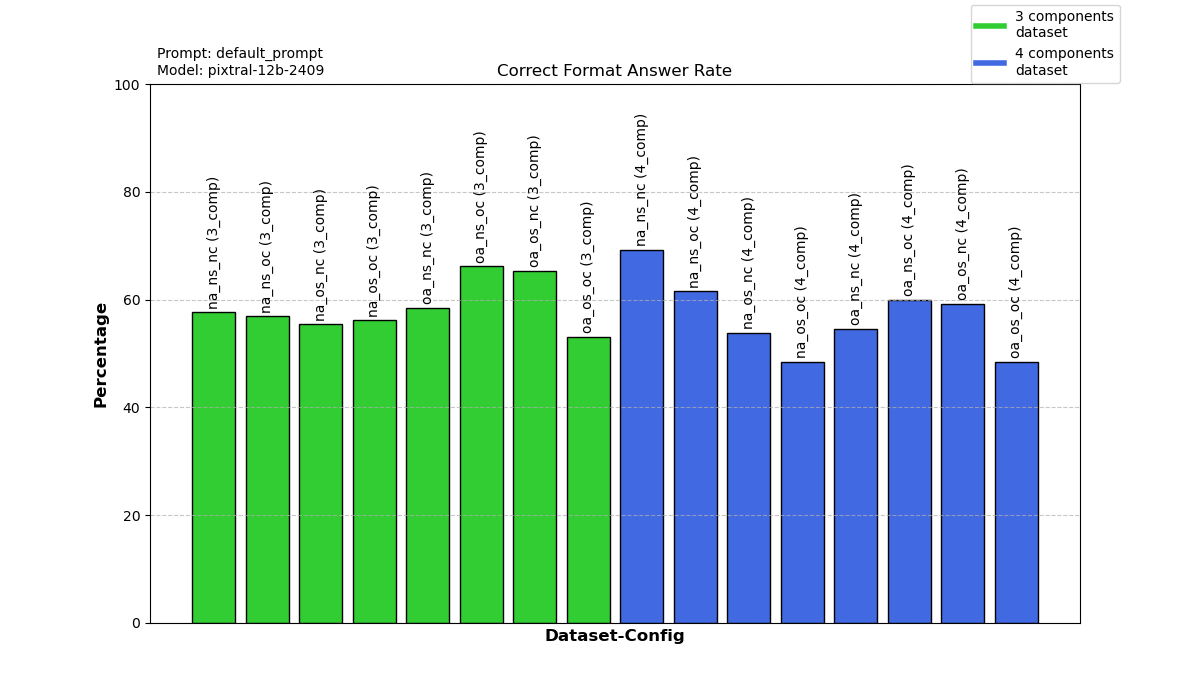
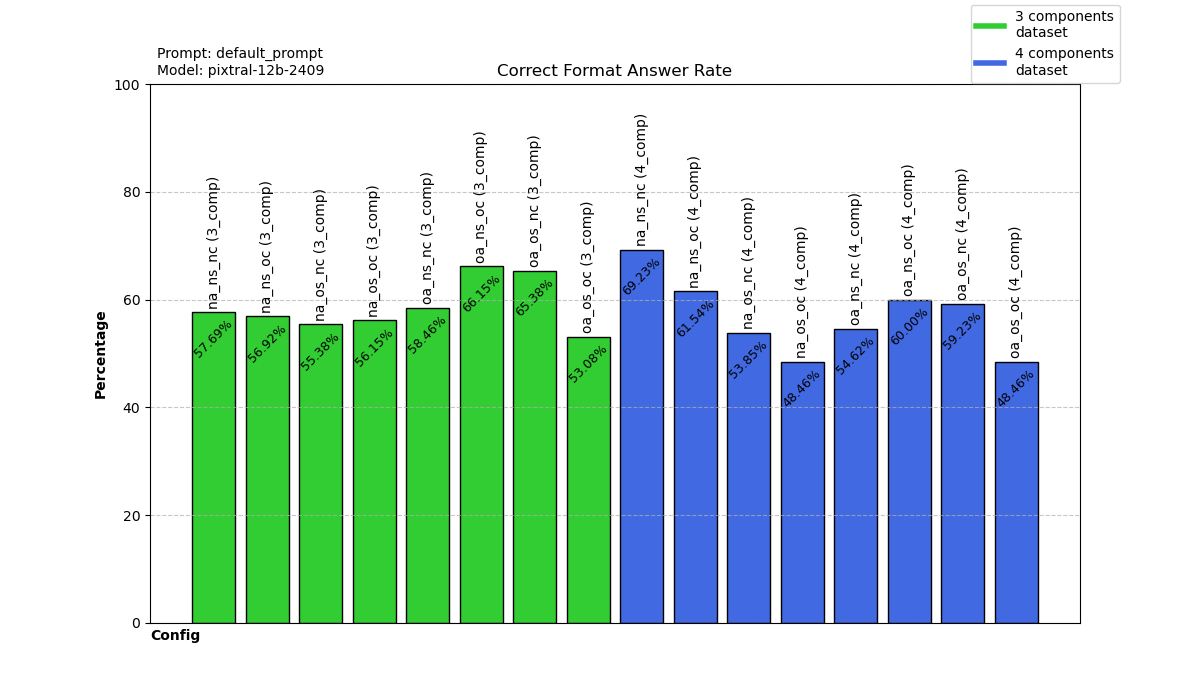
update graphs

diff --git a/Mistral/results/results.py b/Mistral/results/results.py
@@ -46,8 +46,8 @@ def plot_data(x: list, y: list, title: str, xlabel: str, ylabel: str, y_limit: i
     plt.figure(figsize=(12, 7))  
     bars = plt.bar(range(len(x)), y, color=colors, edgecolor='black')  
     plt.title(title)
-    plt.xlabel(xlabel, loc="center", fontweight='bold', fontsize=12)
-    plt.ylabel(ylabel, fontweight='bold', fontsize=12)
+    plt.xlabel(xlabel, loc="left", fontweight='bold', fontsize=10)
+    plt.ylabel(ylabel, fontsize=10, fontweight='bold')
     plt.xticks([])  
 
     for bar, label in zip(bars, x):
@@ -58,6 +58,15 @@ def plot_data(x: list, y: list, title: str, xlabel: str, ylabel: str, y_limit: i
             ha='center', va='center',  # Center alignment
             fontsize=10, color='black',
             rotation=90  
+        )
+    for bar, label in zip(bars, y):
+        plt.text(
+            bar.get_x() + bar.get_width() / 2,  # Center horizontally
+            bar.get_height() - 5,  # Position in the middle of the bar
+            f"{label:.2f}%",  # The label text
+            ha='center', va='center',  # Center alignment
+            fontsize=9, color='black',
+            rotation=45
         )
 
     plt.grid(axis='y', linestyle='--', alpha=0.7)  
@@ -84,18 +93,13 @@ def plot_data(x: list, y: list, title: str, xlabel: str, ylabel: str, y_limit: i
         plt.show()
 
 
-
-def save_plot():
-    pass
-
-
 if __name__ == "__main__":
     DEFAULT_PATH = f"../output/{MODEL}/{PROMPT}"
 
     color_3_comp_ag = "limegreen"
     color_4_comp_ag = "royalblue"
     color_3_comp_cp = "darkorange"
-    color_4_comp_cp = "indigo"
+    color_4_comp_cp = "orchid"
 
     # answer rate graphs
     NUM_QUESTIONS = 13
@@ -148,9 +152,9 @@ if __name__ == "__main__":
                 y_values_cp.append(correctly_predicted/QUESTIONS_TOTAL*100)
                 # print(f"Prompt: {prompt}, Dataset: {dataset}, Config: {config}, Correct Format Answer Rate: {predictions_correct_format/QUESTIONS_TOTAL*100}%")
         ag_save_path = f"./{MODEL}_{prompt}_answer_rate.png"
-        plot_data(x_labels_ag, y_values_ag, f"Correct Format Answer Rate", "Dataset-Config", "Percentage", 100, colors_ag, [color_3_comp_ag, color_4_comp_ag], legend, note=f"Prompt: {prompt}\nModel: {MODEL}", save_path=ag_save_path)
+        plot_data(x_labels_ag, y_values_ag, f"Correct Format Answer Rate", "Config", "Percentage", 100, colors_ag, [color_3_comp_ag, color_4_comp_ag], legend, note=f"Prompt: {prompt}\nModel: {MODEL}", save_path=ag_save_path)
 
         cp_save_path = f"./{MODEL}_{prompt}_correct_prediction.png"
-        plot_data(x_labels_cp, y_values_cp, f"Correct Prediction Rate", "Dataset-Config", "Percentage", 100, colors_cp, [color_3_comp_cp, color_4_comp_cp], legend, note=f"Prompt: {prompt}\nModel: {MODEL}", save_path=cp_save_path)
+        plot_data(x_labels_cp, y_values_cp, f"Correct Prediction Rate", "Config", "Percentage", 100, colors_cp, [color_3_comp_cp, color_4_comp_cp], legend, note=f"Prompt: {prompt}\nModel: {MODEL}", save_path=cp_save_path)
         print(f"Saved {ag_save_path} and {cp_save_path}")
 
